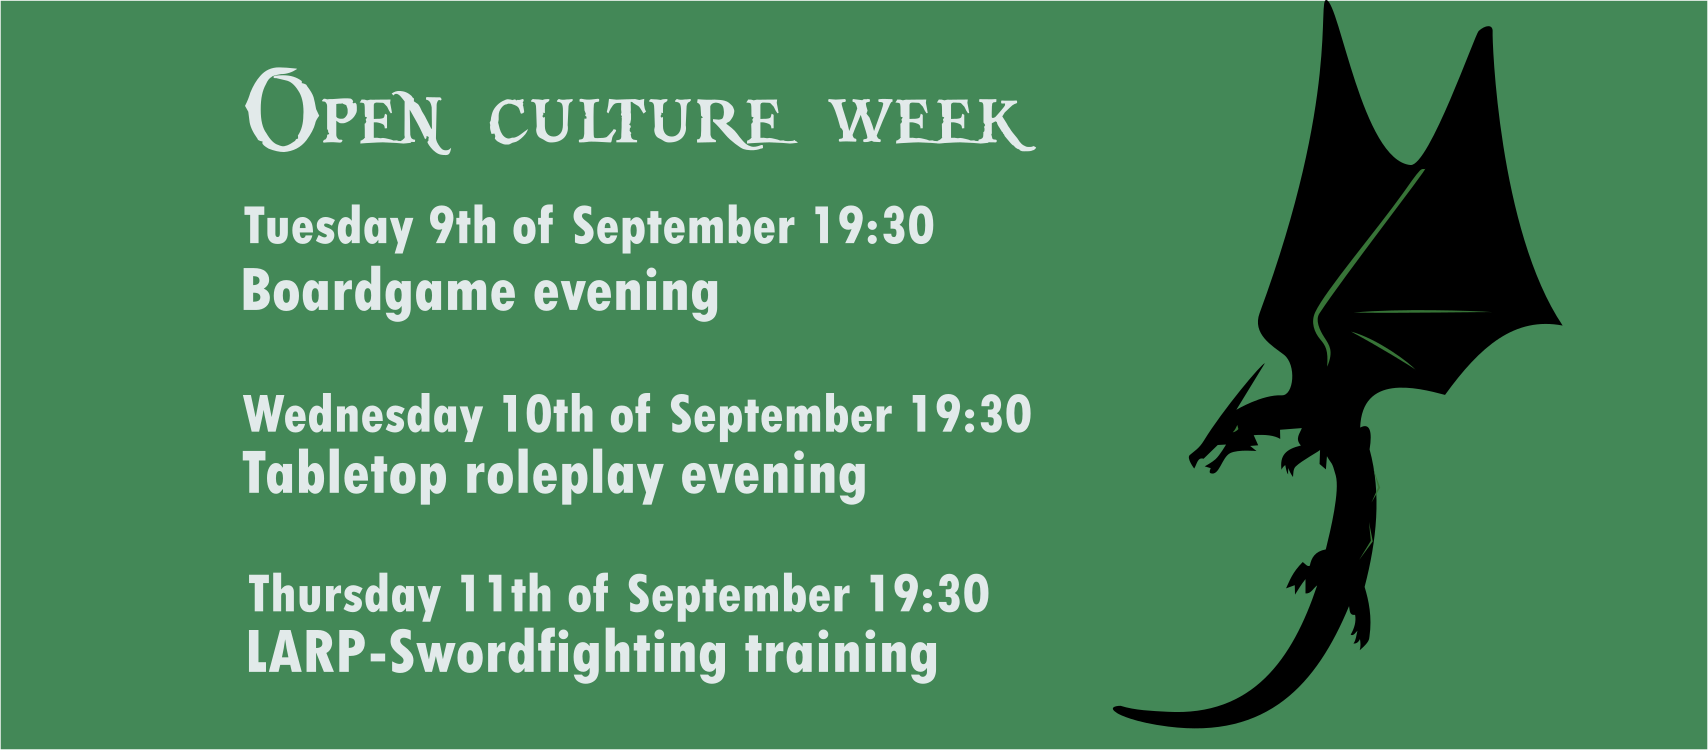
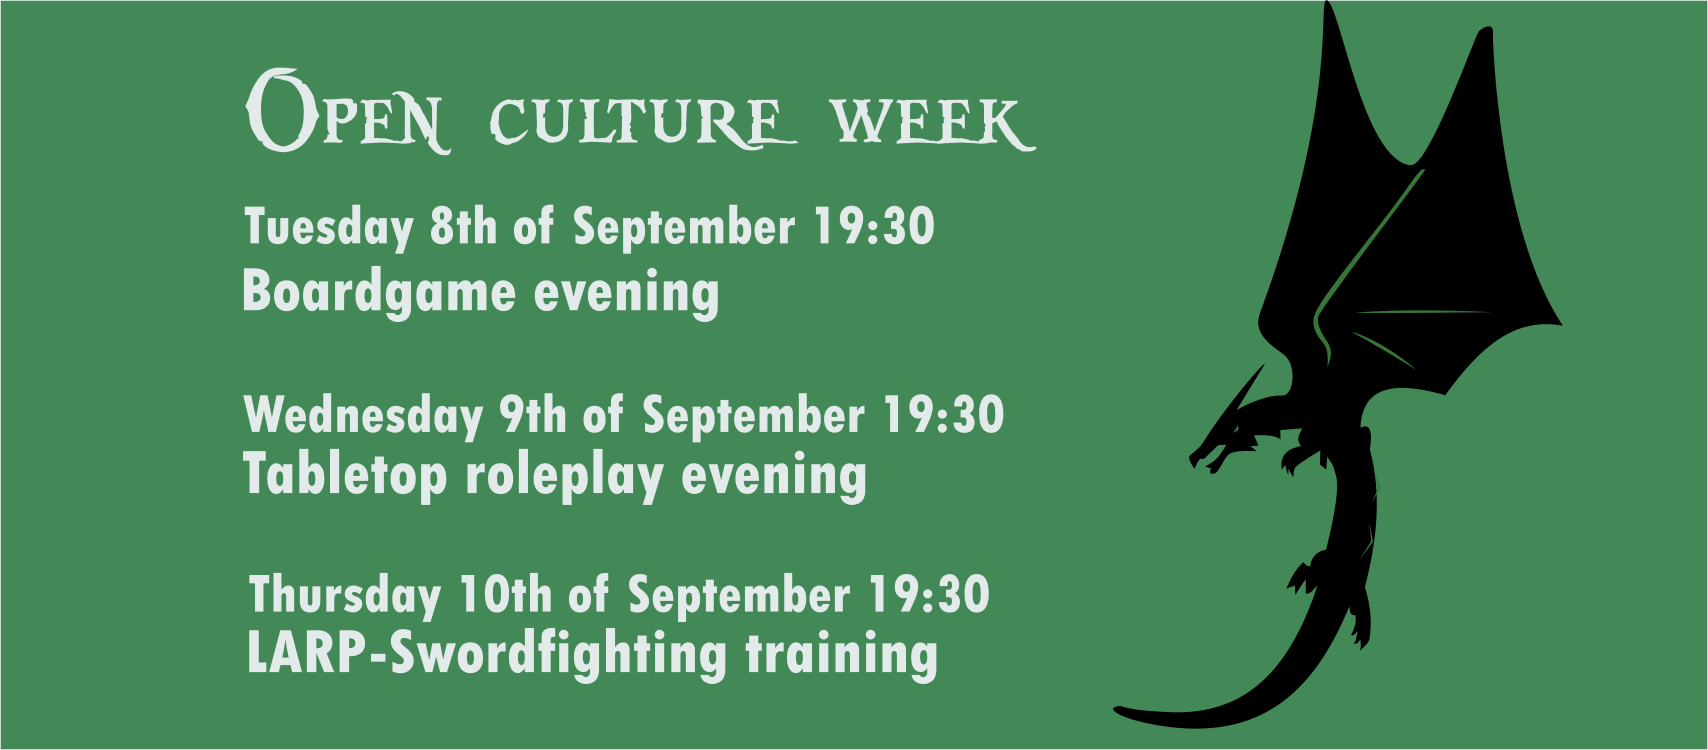
Correct date of OCW and other minor text fixes

diff --git a/kotkt.nl/content/opencultureweek/_index.nl.md b/kotkt.nl/content/opencultureweek/_index.nl.md
@@ -6,7 +6,7 @@ title: "Open Cultuur Week"
     url="/images/ocw2020.png" 
 >}}
 
-Van 9 september tot en met 11 september organiseren we een paar activiteiten weer alle studenten welkom zijn om mee te doen.
+Van 8 september tot en met 10 september organiseren we een paar activiteiten weer alle studenten welkom zijn om mee te doen.
 Deze activiteiten zijn een deel van de [Open Cultuur Week](https://studentencultuur.nl/OCW/) waar alle Studenten Cultuurverenigingen van Eindhoven de deuren open zetten voor nieuwe leden.
 
 {{< aside >}}
@@ -20,13 +20,13 @@ Zoals iedereen moeten we rekening houden met COVID-19 en hebben we regels opgest
 Je kan [hier](https://beta.kotkt.nl/nextcloud/s/JpGkgdMLCGX4nHL/download) onze regels vinden, we raden aan ze door te lezen voordat je langskomt.
 Onderdeel van deze regels is dat **je verplicht bent om je aan te melden** voor onze activiteiten. Niet-leden kunnen zich [hier](https://forms.gle/f1kBn4c8SWdf1GBQ9) aanmelden.
 
-### Dinsdag 9 September 19:30: Bordspelavond
+### Dinsdag 8 September 19:30: Bordspelavond
 
 Iedere week organiseren de Knights een bordspelavond waar we samen bordspellen spelen.
 
 Zie de [hoofdwebsite](/#boardgames) voor meer informatie over bordspellen.
 
-### Woensdag 10 September 19:30: Tabletop Roleplay avond
+### Woensdag 9 September 19:30: Tabletop Roleplay avond
 
 Eens per maand organiseren de Knights een Tabletop Roleplay avond waar onze storytellers een one-shot sessie runnen.
 Zij regelen een roleplay systeem (denk aan Dungeons & Dragons, Fate of iets anders), karakters en samen spelen jullie door het verhaal.
@@ -34,13 +34,13 @@ Deze sessies duren een avond en aan het eind van de avond eindigt het verhaal, d
 
 Er worden wel roleplay-campaigns bij de Knights gespeeld overigens, als je daarin geinteresseerd bent: vraag het aan een bestuurslid of stuur een mail naar info@kotkt.nl.
 
-### Donderdag 11 September 19:30: LARP zwaardvecht training
+### Donderdag 10 September 19:30: LARP zwaardvecht training
 
 Iedere twee weken organiseren de Knights een LARP zwaardvechttraining.
 Tijdens de training oefen je met LARP-safe zwaarden.
 Omdat dit de eerste training van het jaar is, gaan we focussen op beginners, dus als je nog niet weet hoe je een zwaard moet vasthouden: dit is je kans!
 
-Naast de zwaardvechttraining organiseren we ook een paar LARPS, voor meer informatie daarover [zie de hoofdsite](/#larp)
+Naast de zwaardvechttraining organiseren we ook een paar LARPs, voor meer informatie daarover [zie de hoofdsite](/#larp)
 
 ### Niet in staat langs te komen?
 

diff --git a/kotkt.nl/content/opencultureweek/_index.en.md b/kotkt.nl/content/opencultureweek/_index.en.md
@@ -6,7 +6,7 @@ title: "Open Culture Week"
     url="/images/ocw2020.png" 
 >}}
      
-From the 9th of September to the 11th of September we're organizing a bunch of activities where all students are welcome to join.
+From the 8th of September until the 10th of September we're organizing a bunch of activities where all students are welcome to join.
 These activities are a part of the [Open Culture Week](https://studentencultuur.nl/OCW/) where all Student Culture Associations of Eindhoven open up.
 
 {{< aside >}}
@@ -23,13 +23,13 @@ Please read them before joining an activity.
 Part of these guidelines is that **you are required to sign up** for these activities. Non-members can sign up [here](https://forms.gle/f1kBn4c8SWdf1GBQ9)
 
 
-### Tuesday 9th of September 19:30: Boardgame Evening
+### Tuesday 8th of September 19:30: Boardgame Evening
 
 Every week the Knights organize a Boardgame Evening where we play boardgames together.
 
 For more info on boardgames, [see the main site](/en/#boardgames)
 
-### Wednesday 10th of September 19:30: Tabletop Roleplay Evening
+### Wednesday 9th of September 19:30: Tabletop Roleplay Evening
 
 Once a month the Knights organize a Tabletop Roleplay Evening where our storytellers prepare a one-shot session.
 They set up a roleplaying system (think Dungeons & Dragons, Fate or others), characters and together you play through a story.
@@ -37,7 +37,7 @@ These sessions run for a night and at the end of the night the story ends as wel
 
 We do host roleplay-campaigns though, if you are interested in them talk to a board member or send a mail to info@kotkt.nl
 
-### Thursday 11th of September 19:30: LARP Swordfighting training
+### Thursday 10th of September 19:30: LARP Swordfighting training
 
 Every two weeks the Knights organize a LARP-Swordfighting training.
 In this training you play with LARP-safe swords.

diff --git a/kotkt.nl/content/_index.nl.md b/kotkt.nl/content/_index.nl.md
@@ -7,7 +7,7 @@ title: Welkom
    subtitle="De Bord- en Rollenspellen vereniging van Eindhoven"  
      >}}
 
-### 9, 10 en 11 September 2020: Open Cultuur Week
+### 8, 9 and 10 September 2020: Open Cultuur Week
 
 Een paar open activiteiten waar je gratis aan mee kan doen als je geinteresseerd bent in de Knights.
 Klik [hier](/opencultureweek) voor meer details!

diff --git a/kotkt.nl/content/_index.en.md b/kotkt.nl/content/_index.en.md
@@ -7,7 +7,7 @@ title: Welcome
    subtitle="The Board and Roleplaying association in Eindhoven"  
      >}}
 
-### 9, 10 and 11 September 2020: Open Culture Week
+### 8, 9 and 10 September 2020: Open Culture Week
 
 A few open activities you can join if you are interested in the Knights.
 Click [here](/en/opencultureweek) for more details!
